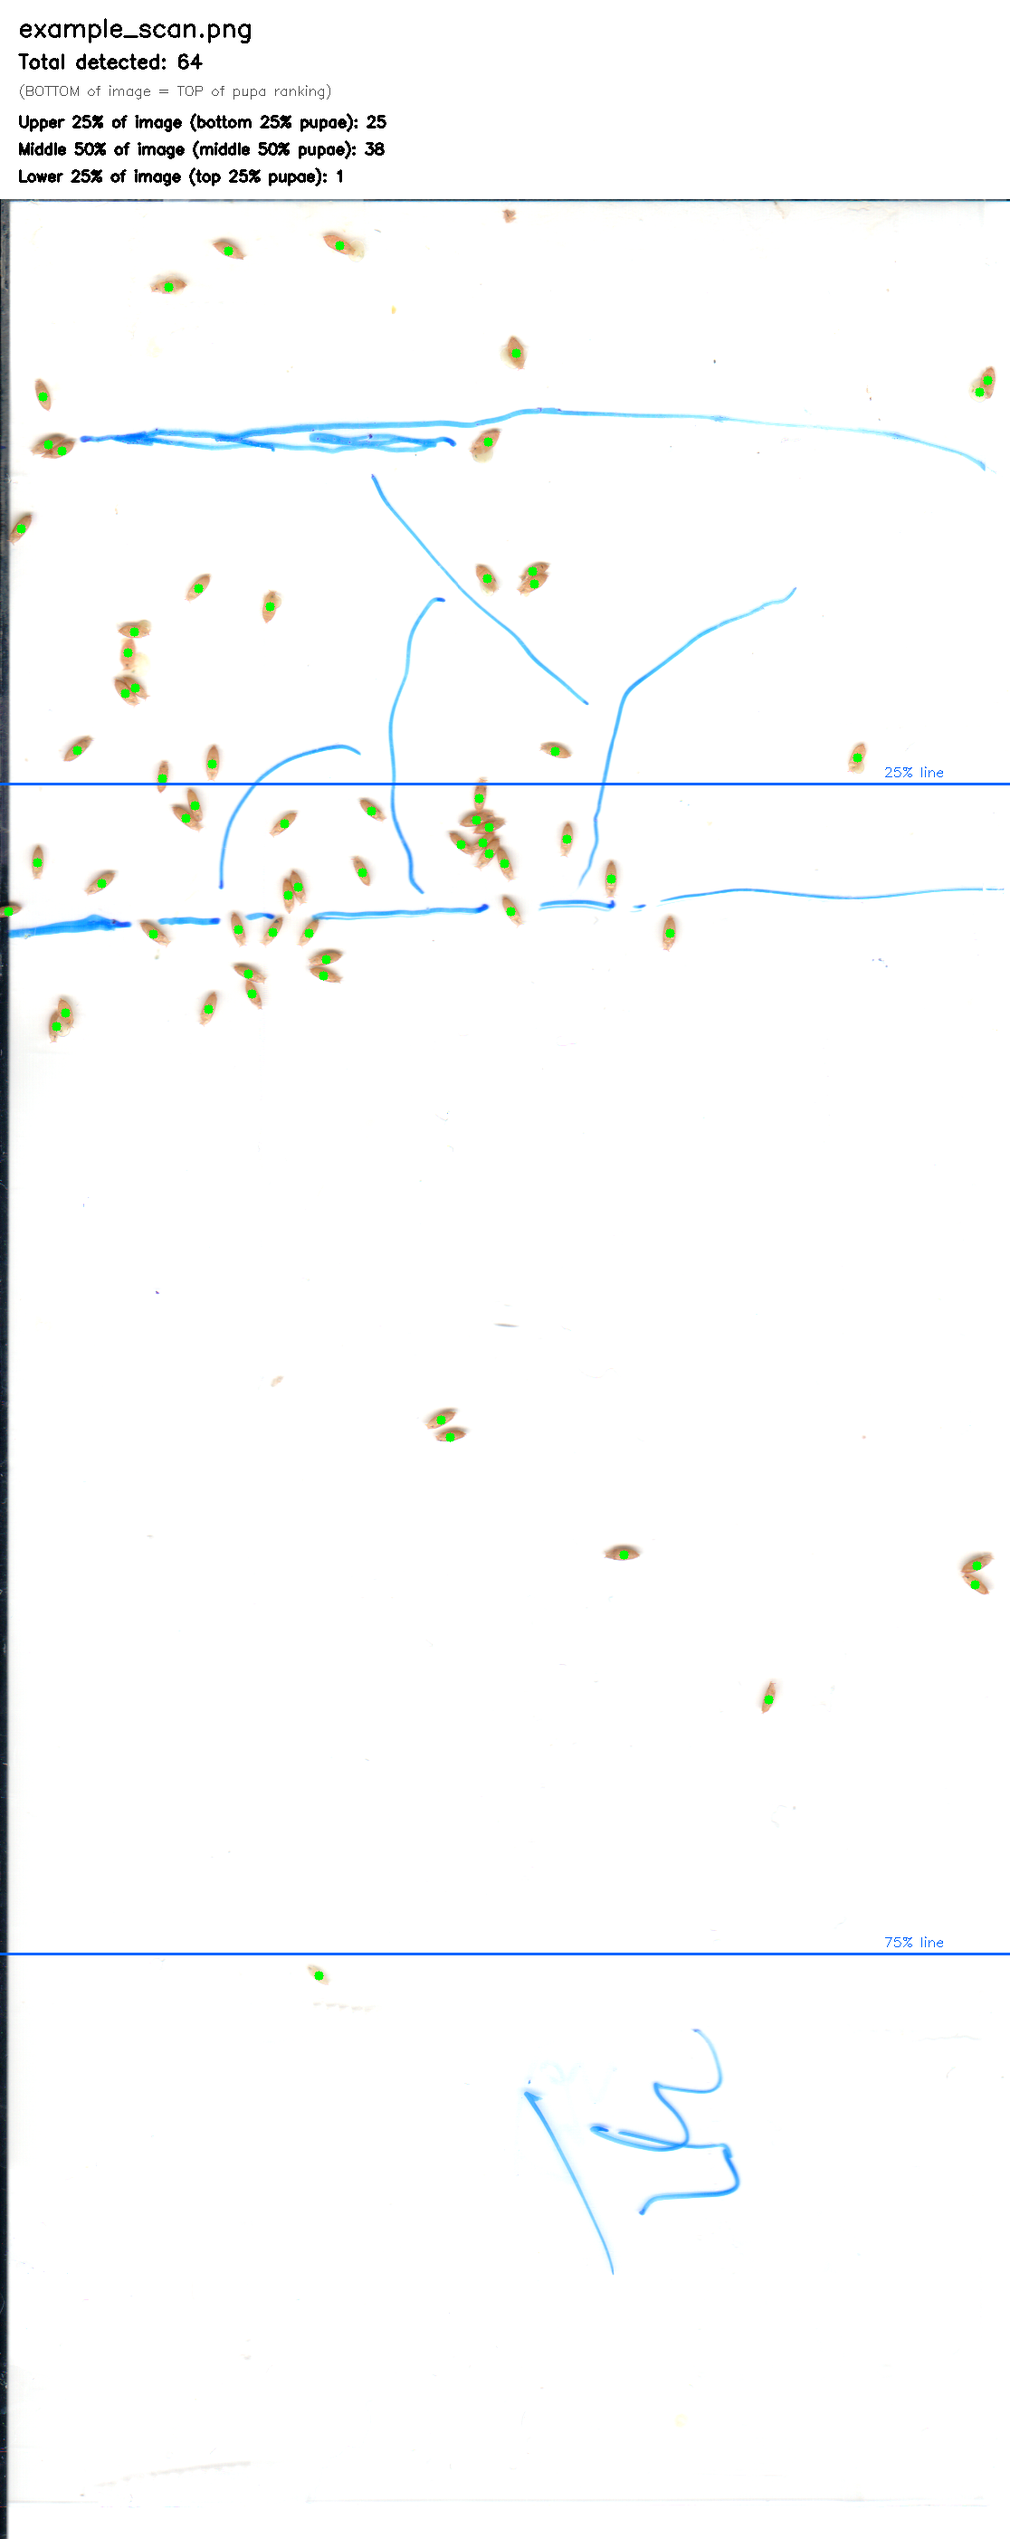
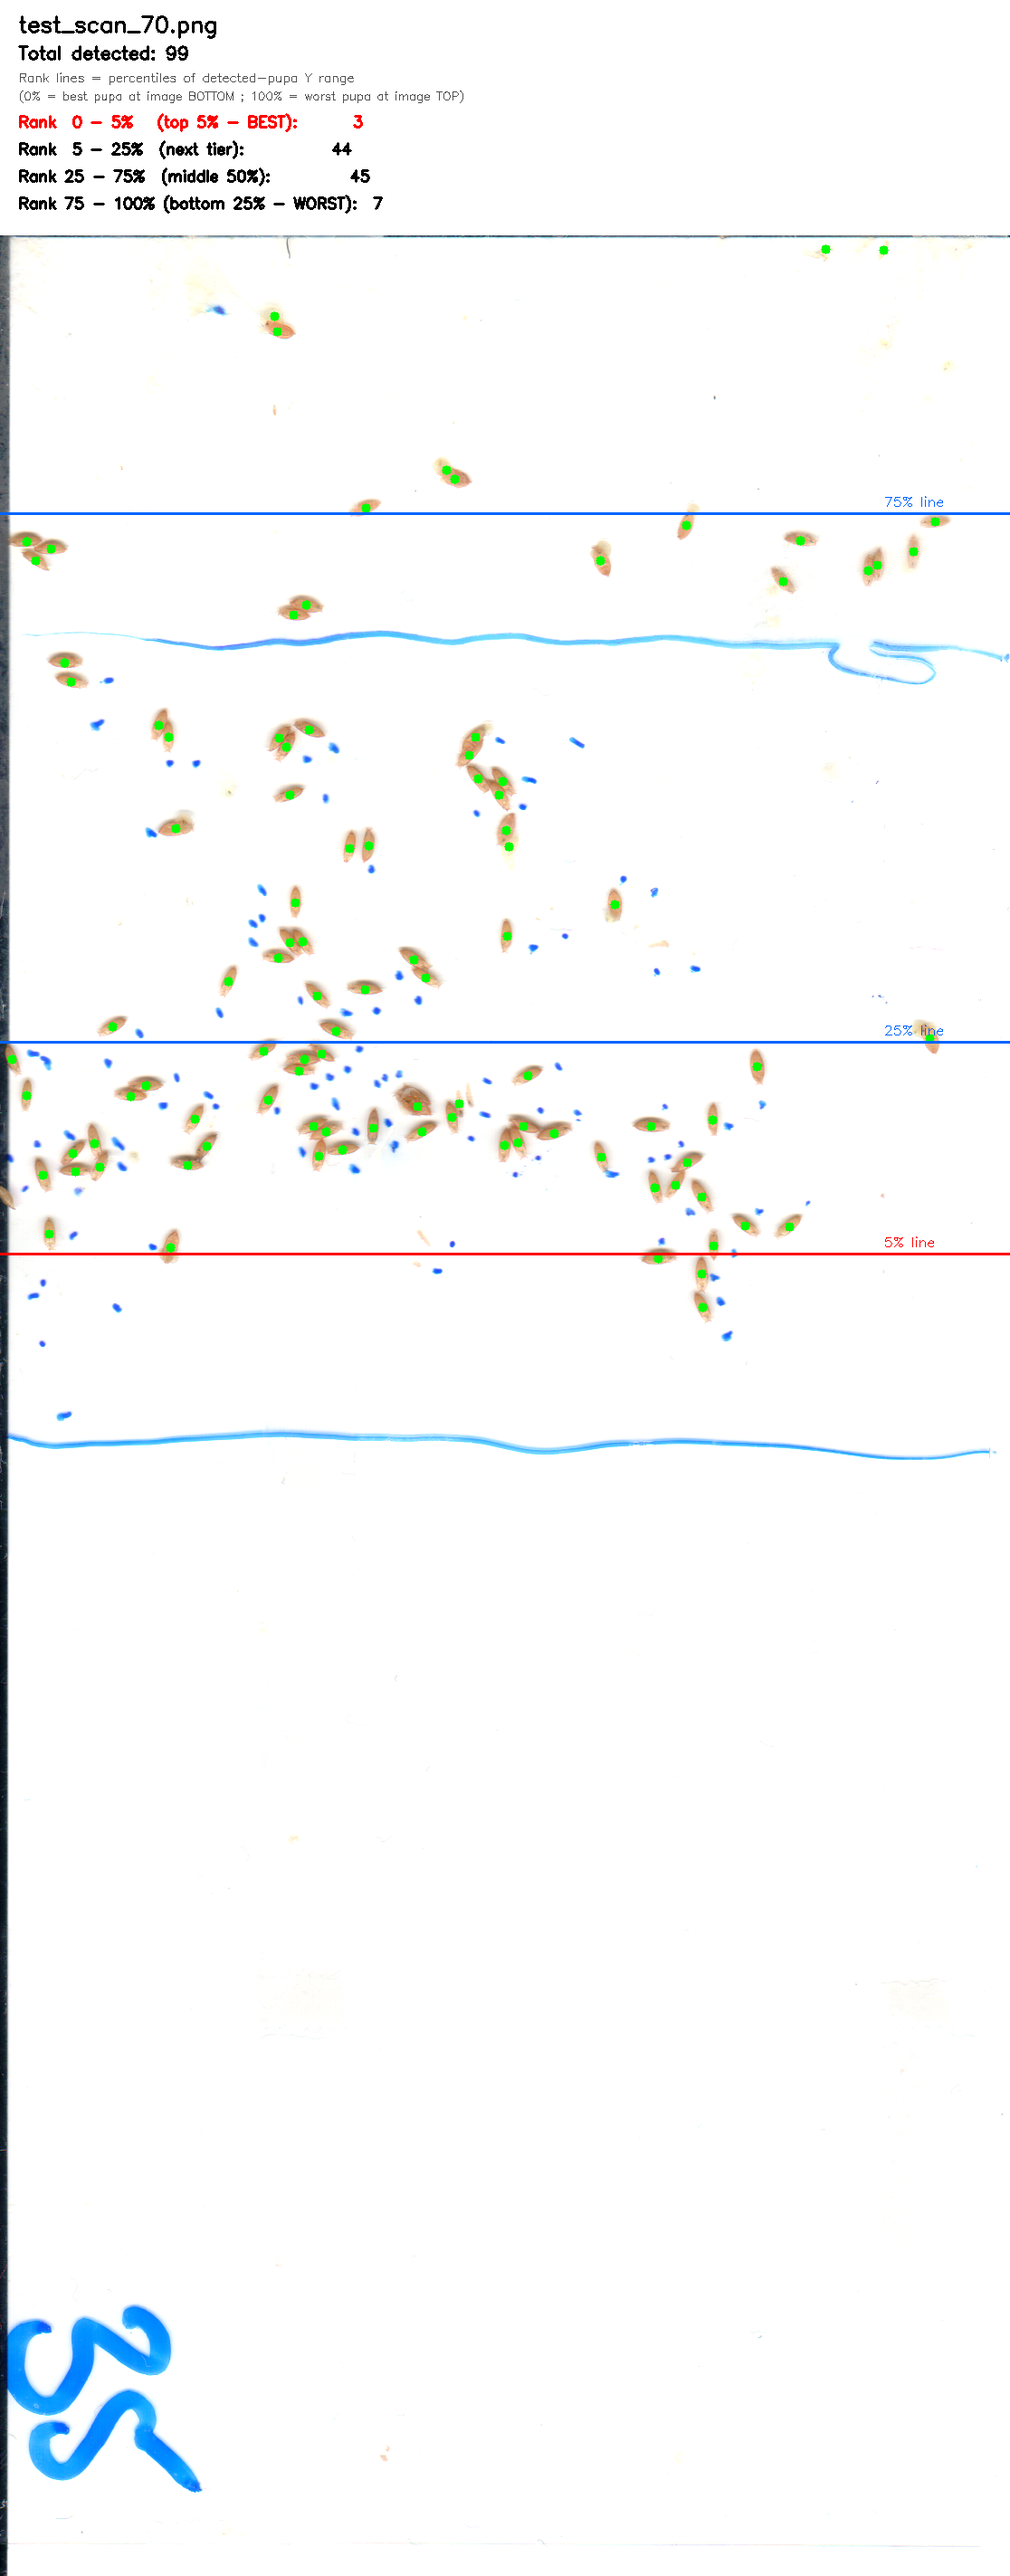
Add rank-percentile lines (5/25/75%) based on detected pupa Y range
Previously the 25/75% split lines divided the IMAGE height. Now they
divide the detected-pupa Y range — topmost pupa = rank 100% (worst),
bottommost pupa = rank 0% (best). Adds a new 5% line for the top-tier
pupae, along with a fourth count column in the Excel output.

Excel columns now:
  top_5_pct_count, rank_5_to_25_pct_count, middle_50_pct_count,
  bottom_25_pct_count, y_min_of_pupae, y_max_of_pupae

diff --git a/pupa_counter.py b/pupa_counter.py
@@ -141,67 +141,101 @@ def extract_peaks(heatmap: np.ndarray,
 # Visualization
 # ----------------------------------------------------------------------------
 
-HEADER_HEIGHT = 220
+HEADER_HEIGHT = 260
 LINE_COLOR = (255, 100, 0)   # BGR — orange
+LINE_COLOR_5 = (0, 0, 255)   # BGR — red (top 5% emphasis)
 LINE_THICKNESS = 2
 DOT_COLOR = (0, 255, 0)      # BGR — green
 DOT_RADIUS = 5
 
 
 def render_annotated(img_bgr: np.ndarray, peaks: list[tuple[int, int]],
-                     scan_name: str) -> tuple[np.ndarray, dict[str, int]]:
-    """Draw detections + split lines + header. Returns (image, region_counts)."""
-    h, w = img_bgr.shape[:2]
-    y25 = int(h * 0.25)
-    y75 = int(h * 0.75)
+                     scan_name: str) -> tuple[np.ndarray, dict]:
+    """Draw detections + split lines + header.
 
-    # Count per region
+    Percentile lines are based on detected-pupa Y range:
+        0%   = bottommost pupa in image (TOP of pupa ranking, best)
+        100% = topmost pupa in image (BOTTOM of pupa ranking, worst)
+    Lines at rank 5%, 25%, 75%.
+    """
+    h, w = img_bgr.shape[:2]
+
+    # Default stats dict (in case no pupa detected)
     counts = {
-        "upper_25_of_image__bottom_25_of_pupae": 0,
-        "middle_50_of_image__middle_50_of_pupae": 0,
-        "lower_25_of_image__top_25_of_pupae": 0,
+        "top_5_pct": 0,
+        "rank_5_to_25_pct": 0,
+        "middle_50_pct": 0,
+        "bottom_25_pct": 0,
+        "y_min_of_pupae": None,
+        "y_max_of_pupae": None,
     }
-    for x, y in peaks:
-        if y < y25:
-            counts["upper_25_of_image__bottom_25_of_pupae"] += 1
-        elif y < y75:
-            counts["middle_50_of_image__middle_50_of_pupae"] += 1
-        else:
-            counts["lower_25_of_image__top_25_of_pupae"] += 1
+
+    if peaks:
+        ys = np.array([y for x, y in peaks])
+        y_min = int(ys.min())   # topmost pupa (smallest y) = worst rank
+        y_max = int(ys.max())   # bottommost pupa (largest y) = best rank
+        y_range = max(1, y_max - y_min)
+        counts["y_min_of_pupae"] = y_min
+        counts["y_max_of_pupae"] = y_max
+
+        # Line y for rank p (0 = best, 100 = worst)
+        def line_y(p: float) -> int:
+            return int(y_max - (p / 100.0) * y_range)
+
+        y_5  = line_y(5)
+        y_25 = line_y(25)
+        y_75 = line_y(75)
+
+        for x, y in peaks:
+            if y >= y_5:               # rank 0-5%
+                counts["top_5_pct"] += 1
+            elif y >= y_25:            # rank 5-25%
+                counts["rank_5_to_25_pct"] += 1
+            elif y >= y_75:            # rank 25-75%
+                counts["middle_50_pct"] += 1
+            else:                       # rank 75-100%
+                counts["bottom_25_pct"] += 1
+    else:
+        y_5 = y_25 = y_75 = None
 
     # Draw on a copy of the scan
     marked = img_bgr.copy()
     for x, y in peaks:
         cv2.circle(marked, (x, y), DOT_RADIUS, DOT_COLOR, -1)
-    cv2.line(marked, (0, y25), (w, y25), LINE_COLOR, LINE_THICKNESS)
-    cv2.line(marked, (0, y75), (w, y75), LINE_COLOR, LINE_THICKNESS)
-    cv2.putText(marked, "25% line", (w - 140, y25 - 8),
-                cv2.FONT_HERSHEY_SIMPLEX, 0.5, LINE_COLOR, 1)
-    cv2.putText(marked, "75% line", (w - 140, y75 - 8),
-                cv2.FONT_HERSHEY_SIMPLEX, 0.5, LINE_COLOR, 1)
+
+    if y_5 is not None:
+        cv2.line(marked, (0, y_5),  (w, y_5),  LINE_COLOR_5, LINE_THICKNESS)
+        cv2.line(marked, (0, y_25), (w, y_25), LINE_COLOR, LINE_THICKNESS)
+        cv2.line(marked, (0, y_75), (w, y_75), LINE_COLOR, LINE_THICKNESS)
+        cv2.putText(marked, "5% line",  (w - 140, y_5  - 8),
+                    cv2.FONT_HERSHEY_SIMPLEX, 0.5, LINE_COLOR_5, 1)
+        cv2.putText(marked, "25% line", (w - 140, y_25 - 8),
+                    cv2.FONT_HERSHEY_SIMPLEX, 0.5, LINE_COLOR, 1)
+        cv2.putText(marked, "75% line", (w - 140, y_75 - 8),
+                    cv2.FONT_HERSHEY_SIMPLEX, 0.5, LINE_COLOR, 1)
 
     # Header canvas
     final = np.ones((h + HEADER_HEIGHT, w, 3), dtype=np.uint8) * 255
     final[HEADER_HEIGHT:, :] = marked
 
     font = cv2.FONT_HERSHEY_SIMPLEX
-    cv2.putText(final, scan_name, (20, 40), font, 0.9, (0, 0, 0), 2)
-    cv2.putText(final, f"Total detected: {len(peaks)}", (20, 75),
-                font, 0.7, (0, 0, 0), 2)
-    cv2.putText(final, "(BOTTOM of image = TOP of pupa ranking)",
-                (20, 105), font, 0.5, (80, 80, 80), 1)
-    cv2.putText(final,
-                f"Upper 25% of image (bottom 25% pupae): "
-                f"{counts['upper_25_of_image__bottom_25_of_pupae']}",
-                (20, 140), font, 0.55, (0, 0, 0), 2)
-    cv2.putText(final,
-                f"Middle 50% of image (middle 50% pupae): "
-                f"{counts['middle_50_of_image__middle_50_of_pupae']}",
-                (20, 170), font, 0.55, (0, 0, 0), 2)
-    cv2.putText(final,
-                f"Lower 25% of image (top 25% pupae): "
-                f"{counts['lower_25_of_image__top_25_of_pupae']}",
-                (20, 200), font, 0.55, (0, 0, 0), 2)
+    cv2.putText(final, scan_name, (20, 35), font, 0.8, (0, 0, 0), 2)
+    cv2.putText(final, f"Total detected: {len(peaks)}", (20, 65),
+                font, 0.65, (0, 0, 0), 2)
+    cv2.putText(final, "Rank lines = percentiles of detected-pupa Y range",
+                (20, 90), font, 0.45, (80, 80, 80), 1)
+    cv2.putText(final, "(0% = best pupa at image BOTTOM ; 100% = worst pupa at image TOP)",
+                (20, 110), font, 0.42, (80, 80, 80), 1)
+
+    y_text = 140
+    cv2.putText(final, f"Rank  0 - 5%   (top 5% - BEST):       {counts['top_5_pct']}",
+                (20, y_text), font, 0.55, LINE_COLOR_5, 2)
+    cv2.putText(final, f"Rank  5 - 25%  (next tier):           {counts['rank_5_to_25_pct']}",
+                (20, y_text + 30), font, 0.55, (0, 0, 0), 2)
+    cv2.putText(final, f"Rank 25 - 75%  (middle 50%):          {counts['middle_50_pct']}",
+                (20, y_text + 60), font, 0.55, (0, 0, 0), 2)
+    cv2.putText(final, f"Rank 75 - 100% (bottom 25% - WORST):  {counts['bottom_25_pct']}",
+                (20, y_text + 90), font, 0.55, (0, 0, 0), 2)
     return final, counts
 
 
@@ -211,9 +245,11 @@ def render_annotated(img_bgr: np.ndarray, peaks: list[tuple[int, int]],
 
 EXCEL_HEADERS = [
     "scan_name", "timestamp", "total_count",
-    "bottom_25_pupae_count",   # upper 25% of image
-    "middle_50_pupae_count",   # middle 50% of image
-    "top_25_pupae_count",      # lower 25% of image
+    "top_5_pct_count",         # rank 0-5% (best)
+    "rank_5_to_25_pct_count",  # rank 5-25%
+    "middle_50_pct_count",     # rank 25-75%
+    "bottom_25_pct_count",     # rank 75-100% (worst)
+    "y_min_of_pupae", "y_max_of_pupae",
     "image_width", "image_height",
 ]
 
@@ -240,9 +276,12 @@ def append_to_excel(excel_path: Path, scan_name: str, counts: dict,
         scan_name,
         datetime.now().isoformat(timespec="seconds"),
         total,
-        counts["upper_25_of_image__bottom_25_of_pupae"],
-        counts["middle_50_of_image__middle_50_of_pupae"],
-        counts["lower_25_of_image__top_25_of_pupae"],
+        counts["top_5_pct"],
+        counts["rank_5_to_25_pct"],
+        counts["middle_50_pct"],
+        counts["bottom_25_pct"],
+        counts["y_min_of_pupae"],
+        counts["y_max_of_pupae"],
         img_w,
         img_h,
     ])
@@ -273,9 +312,10 @@ def process_one(model: TinyUNet, device: torch.device, src: Path,
     append_to_excel(excel_path, src.name, counts, len(peaks), w, h)
 
     print(f"[done] {src.name:40s} total={len(peaks):4d}  "
-          f"bottom25={counts['upper_25_of_image__bottom_25_of_pupae']:3d}  "
-          f"middle50={counts['middle_50_of_image__middle_50_of_pupae']:3d}  "
-          f"top25={counts['lower_25_of_image__top_25_of_pupae']:3d}  "
+          f"top5%={counts['top_5_pct']:3d}  "
+          f"5-25%={counts['rank_5_to_25_pct']:3d}  "
+          f"mid50%={counts['middle_50_pct']:3d}  "
+          f"bot25%={counts['bottom_25_pct']:3d}  "
           f"-> {out_img.name}")
 
 

diff --git a/README.md b/README.md
@@ -19,20 +19,32 @@ For every scan you feed it, the program:
 
 1. Runs the v6 CNN and extracts pupa center locations.
 2. Draws a green dot on each detected pupa.
-3. Splits the image with two horizontal lines at 25% and 75% height, and
-   reports how many pupae fall in each band.
-4. Saves the annotated image to `output/`.
-5. Appends one row to `output/pupa_counts.xlsx` — re-run it on new scans
+3. Computes **three rank percentile lines** at 5%, 25%, 75% of the detected-
+   pupa Y range (not the image height — the topmost/bottommost detected
+   pupa define 0% / 100%).
+4. Reports pupa counts in four bands.
+5. Saves the annotated image to `output/`.
+6. Appends one row to `output/pupa_counts.xlsx` — re-run it on new scans
    and the Excel keeps growing.
 
-The split lines follow the lab convention that the **physical top of the
-pupa ranking appears at the bottom of the image**:
+The rank convention follows the lab's sorting workflow where the **top of
+the pupa ranking is at the BOTTOM of the image**:
 
-| Band in image | Meaning |
+| Image Y-coord | Rank % | Meaning |
+|---|---|---|
+| Bottommost pupa  | 0%   | Best pupa (top of ranking) |
+| Topmost pupa     | 100% | Worst pupa (bottom of ranking) |
+
+Four regions & counts reported:
+
+| Band       | Meaning |
 |---|---|
-| Upper 25% of image  | Bottom 25% of pupae (lowest rank) |
-| Middle 50% of image | Middle 50% of pupae |
-| Lower 25% of image  | Top 25% of pupae (highest rank) |
+| Rank 0 - 5%    | Top 5% best pupae (red line in image) |
+| Rank 5 - 25%   | Next tier |
+| Rank 25 - 75%  | Middle 50% |
+| Rank 75 - 100% | Bottom 25% worst pupae |
+
+The 5% line is drawn in red; 25% and 75% in orange.
 
 ## Accuracy (on 60 labeled scans, 6267 pupae total)
 
@@ -110,10 +122,12 @@ python pupa_counter.py scans/ \
 | `scan_name` | Source filename |
 | `timestamp` | ISO-8601 time of processing |
 | `total_count` | All pupae detected |
-| `bottom_25_pupae_count` | Pupae in upper 25% of image (lowest rank) |
-| `middle_50_pupae_count` | Pupae in middle 50% of image |
-| `top_25_pupae_count`    | Pupae in lower 25% of image (highest rank) |
-| `image_width`, `image_height` | Original scan dimensions |
+| `top_5_pct_count`        | Pupae at rank 0-5% (best) |
+| `rank_5_to_25_pct_count` | Pupae at rank 5-25% |
+| `middle_50_pct_count`    | Pupae at rank 25-75% (middle 50%) |
+| `bottom_25_pct_count`    | Pupae at rank 75-100% (worst) |
+| `y_min_of_pupae`, `y_max_of_pupae` | Pixel Y coordinates used for percentile calc |
+| `image_width`, `image_height`      | Original scan dimensions |
 
 Existing files are appended to; delete the file to start fresh.
 
